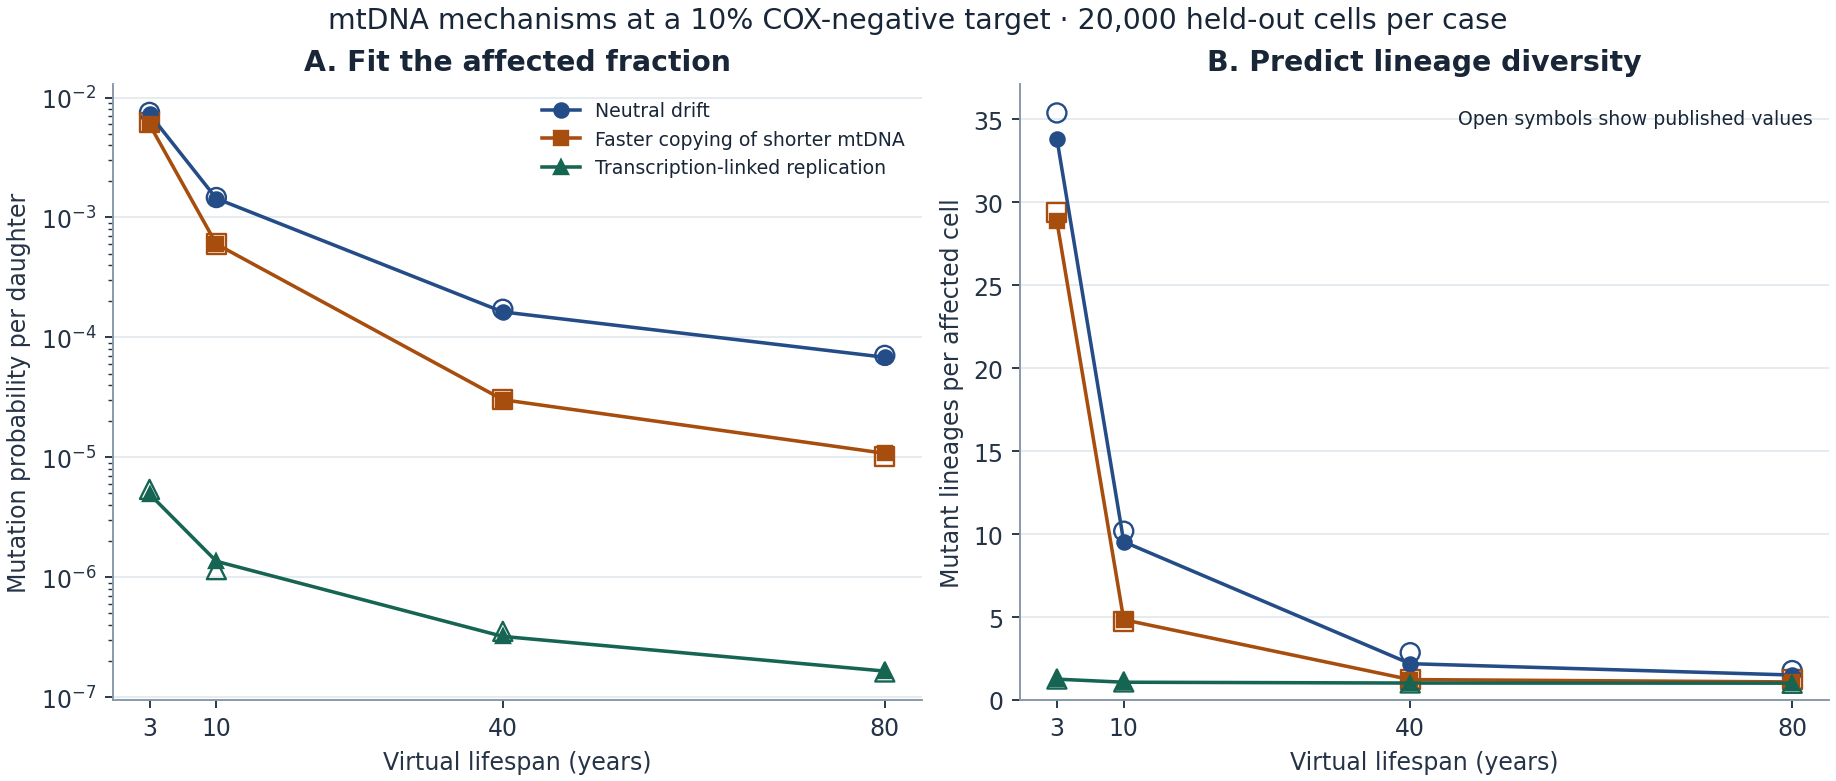
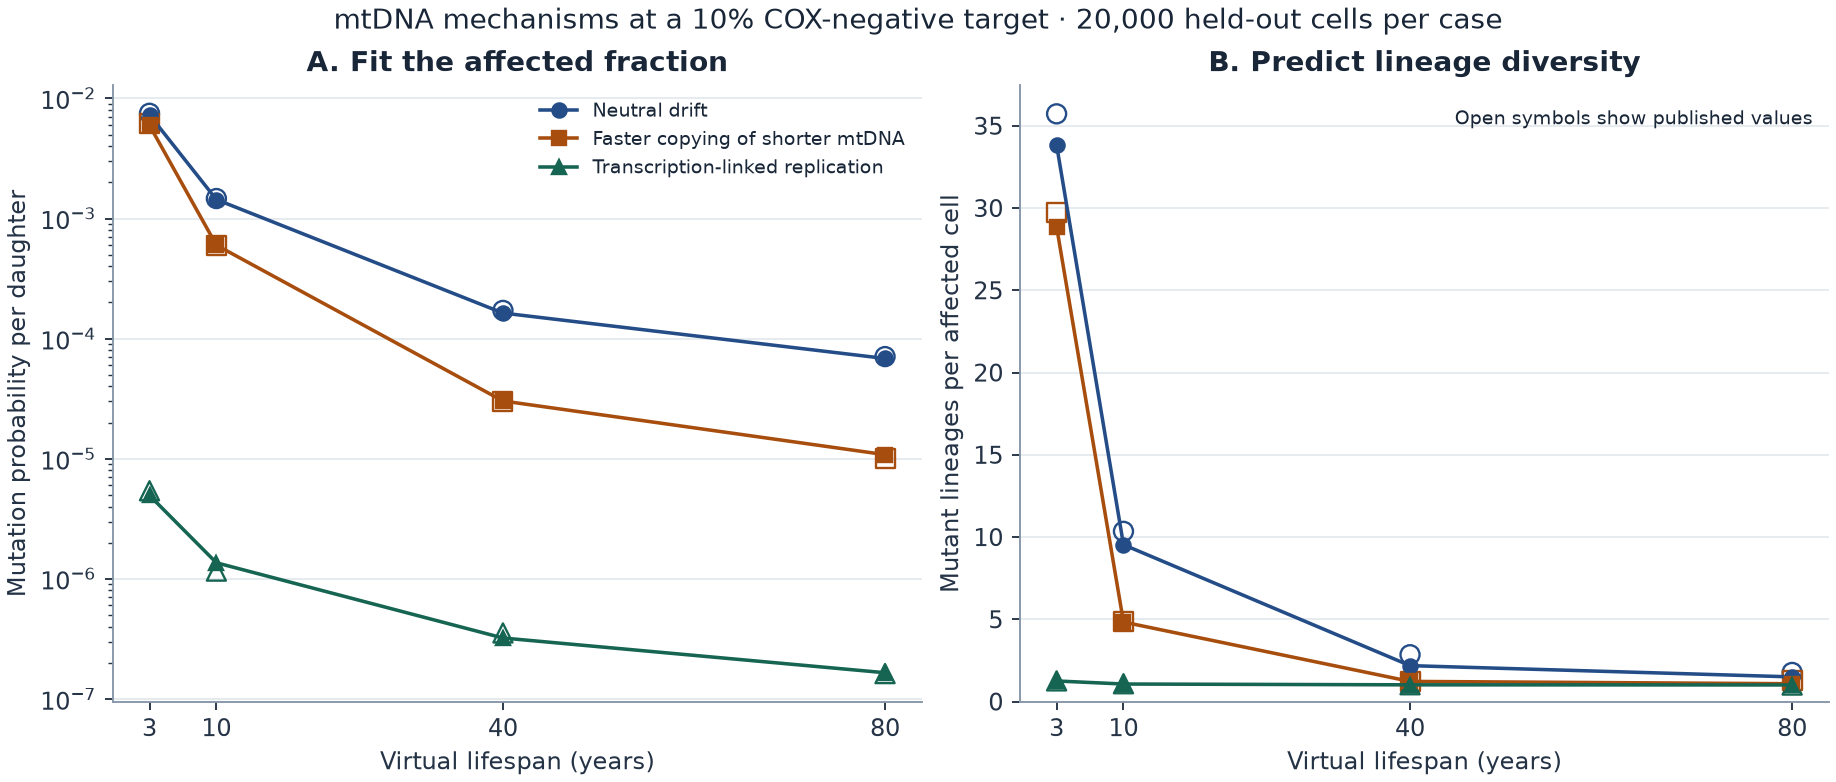
Chapter 17: PNAS Figure 3 and equations checked against the article PDF
The first review could not open the PNAS article's figure and equations.
With the article PDF:

- The ATP equations of the models page are Equations 1 to 3 of the paper,
  and the formula for c in its Table 1 evaluates to the same 1.303. The
  limits page no longer lists the equation form as a choice.
- All 24 markers of Figure 3 were read again from the 901 x 432 px image
  embedded in the PDF. 19 of the 23 stored readings agree within one
  pixel. Four panel B readings (drift and size advantage at 3 and 10
  years) were 2 to 3.5 pixels too low; the corrected values agree with
  the sources the figure cites (35.7 printed in the 2013 table, 29.8 in
  the size paper's Figure 6B).
- reference-differences.csv and the mechanisms figure are regenerated.
  The count of published values that differ beyond both intervals stays
  at nine; two of them change (size 3 y: -3.0%, drift 3 y: -2.5%).
- manifest.json records the hash of the corrected reference file after a
  replay from the saved batches; every table of that replay is byte for
  byte identical. No simulated value depends on reference.csv.

Claude-Session: https://claude.ai/code/session_01Sh6qH1Noyv64tC6dGfSU2Q

diff --git a/docs/guide/17c-mtdna-mechanisms-limits.md b/docs/guide/17c-mtdna-mechanisms-limits.md
@@ -22,8 +22,11 @@ change one choice (1,000 new cells each, in
 | 60% threshold | Text of both papers: "at least 60%". Size paper figure captions and chapter 16: more than 60% | At least 60% (`5*M >= 3*(W+M)`); the strict count is saved as well | The strict rule removes 36 drift and 5 size cells at 3 years, no transcription cell |
 | What a "type" is | PNAS: different mutants. Size paper text: different mtDNAs. 2013 table: matches with wild type included | Mutant lineages; the wild type is added for the 2013 and PNAS drift values | Adds one type to almost every affected 3-year cell |
 | Drift time course | 2013 program steps hourly | Continuous time, the exact pair rule of chapter 16c | not varied |
-| ATP equations | Only as images in the PNAS article; parameters in Table 1 | The equations of [the models page](17a-mtdna-mechanisms-models.md#transcription-linked-replication), from the text and Table 1 | Deterministic collapse after 247 days (paper: about 250) |
 | How the rate is adjusted | Adjusted until 10 ± 0.5% of 1,000 cells are affected | Logistic fit, then an independent 20,000-cell cohort ([protocol](17b-mtdna-mechanisms-results.md#the-protocol)) | — |
+
+The ATP equations themselves are not a choice. They are Equations 1 to 3
+of the PNAS paper, and the formula for `c` in its Table 1 evaluates to the
+same 1.303.
 
 Two of these choices carry the transcription result. With collapsed cells
 counted as affected and mutant templates able to produce new deletions,
@@ -76,11 +79,12 @@ draws different, equally valid cells.
 - The original programs (Mathematica for the size paper, Java for the
   PNAS paper) were not available. Where the text is silent, the table
   above is a choice, not a fact about the published runs.
-- The PNAS equations are available only as images in the online article,
-  and the values of PNAS Figure 3 and the size paper's Figures 6 and 7 were
-  read from the figures with an interval of ±2 pixels. The size paper has
-  an erratum (doi:10.1016/j.jtbi.2014.02.008); its text was not
-  available to the reconstruction.
+- The values of PNAS Figure 3 and the size paper's Figures 6 and 7 were
+  read from the figures with an interval of ±2 pixels. In panel B of the
+  PNAS figure the markers at 40 and 80 years overlap; they are read from
+  their visible edges, and ±2 pixels is a quarter of a type there. The
+  size paper has an erratum (doi:10.1016/j.jtbi.2014.02.008); its text was
+  not available to the reconstruction.
 - The size paper is not self-consistent in one place: its Results give
   almost 160 years for the 70%-size mutant, its Discussion almost 150 years
   for a mutant 30% shorter. The reconstruction gives 158 years.

diff --git a/docs/guide/17b-mtdna-mechanisms-results.md b/docs/guide/17b-mtdna-mechanisms-results.md
@@ -128,16 +128,20 @@ intervals:
 | 2013 Table 1, drift, 3 y, rate | 7.6e-3 | 7.29e-3 (7.16–7.43) | −4% |
 | Size paper Fig 7A, 2-day half-life, 3 y, rate | 1.79e-5 (1.74–1.85) | 1.55e-5 (1.42–1.70) | −13% |
 | Size paper Fig 6B, size, 3 y, types | 29.8 (29.7–30.0) | 28.86 (28.64–29.07) | −3.3% |
-| PNAS Fig 3B, size, 3 y, types | 29.4 (29.1–29.6) | 28.86 (28.64–29.07) | −1.7% |
-| PNAS Fig 3B, drift, 3 y, types with wild type | 35.4 (35.1–35.6) | 34.83 (34.59–35.06) | −1.6% |
+| PNAS Fig 3B, size, 3 y, types | 29.7 (29.5–30.0) | 28.86 (28.64–29.07) | −3.0% |
+| PNAS Fig 3B, drift, 3 y, types with wild type | 35.7 (35.5–36.0) | 34.83 (34.59–35.06) | −2.5% |
 | 2013 Table 1, drift, 3 y, types with wild type | 35.7 | 34.83 (34.59–35.06) | −2.4% |
 | 2013 Table 1, drift, 80 y, types with wild type | 1.75 | 1.81 (1.77–1.84) | +3.2% |
 | Size paper Fig 7B, 2-day half-life, types | 1.16 | 1.107 (1.092–1.121) | −4.6% |
 
-The 80-year size-advantage value read from PNAS Figure 3B (1.26) also lies
-far from the reconstruction (1.09), but the same quantity in the size
-paper's own Figure 6B (1.12) agrees with it; the review could not check
-the PNAS reading. The drift rows depend on the counting convention: with
+The same quantity can appear in two sources. The PNAS figure takes its
+drift and size values from the two earlier papers, and the readings agree
+with them: 35.7 and 29.7 at three years against the printed 35.7 of the
+2013 table and the 29.8 read from the size paper's Figure 6B. At 40 and 80
+years the markers of PNAS Figure 3B overlap, so those readings are
+coarse: the 80-year size-advantage marker reads 1.26 (1.01–1.52), the
+size paper's own bar 1.12, the reconstruction 1.09. The drift rows depend
+on the counting convention: with
 mutant lineages only, every drift count would be about one lower at three
 years. The 2013 drift model also differs from this one in its 360-day
 year and its strict 60% threshold

diff --git a/examples/kk14/README.md b/examples/kk14/README.md
@@ -64,10 +64,21 @@ samplers.
 ## Reference data
 
 - The PNAS Figure 3 markers were digitized from the 901 × 432 px figure
-  embedded in the journal PDF. After reading the tick positions, the
-  colored segments were extrapolated to each marker center. Rates are
-  read in log space. The source intervals allow ±2 pixels in the ordinate.
-  The printed three-year ATP lineage mean of 1.26 takes precedence.
+  embedded in the journal PDF. The axes are calibrated on the tick
+  positions (panel A: 10⁻² at row 52.0 and 10⁻⁷ at row 370.0; panel B: 40
+  at row 32.0 and 0 at row 345.5). A marker center is the center of its
+  disk or ring, or the centroid of its triangle; a marker that is partly
+  hidden is placed from its visible edge. Rates are read in log space. The
+  source intervals allow ±2 pixels in the ordinate. The printed three-year
+  ATP lineage mean of 1.26 takes precedence.
+  Four panel B rows (drift and size advantage at 3 and 10 years) were
+  first read 2 to 3.5 pixels too low, by extrapolating the steep colored
+  segments to the marker. They were read again from the marker outlines
+  after the full-tier run. The corrected readings agree with the sources
+  the PNAS figure cites: 35.7 printed in the 2013 table and 29.8 in the
+  size paper's Figure 6B. No simulated value depends on this file;
+  `manifest.json` records its hash after a replay from the saved batches,
+  and `draft-manifest.json` keeps the hash of the file at the draft run.
   [Article](https://pmc.ncbi.nlm.nih.gov/articles/PMC3939916/)
   · [PDF](https://europepmc.org/articles/PMC3939916?pdf=render)
 - The size paper includes the original bars in Figure 6. Figure 7 gives
